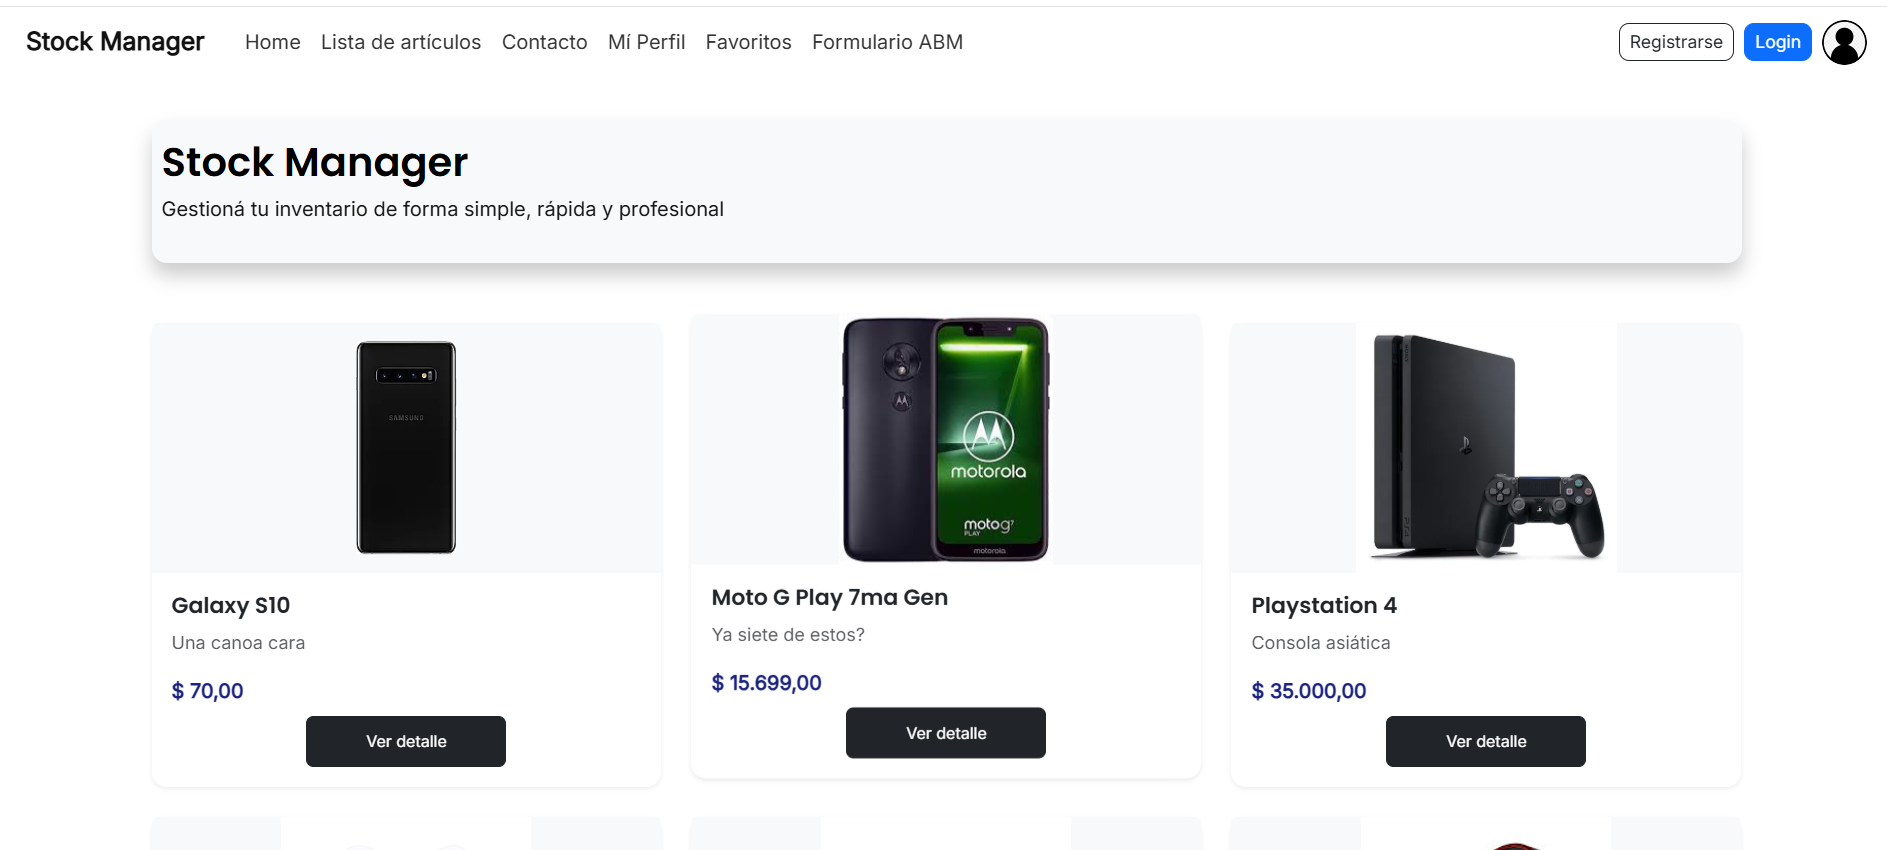
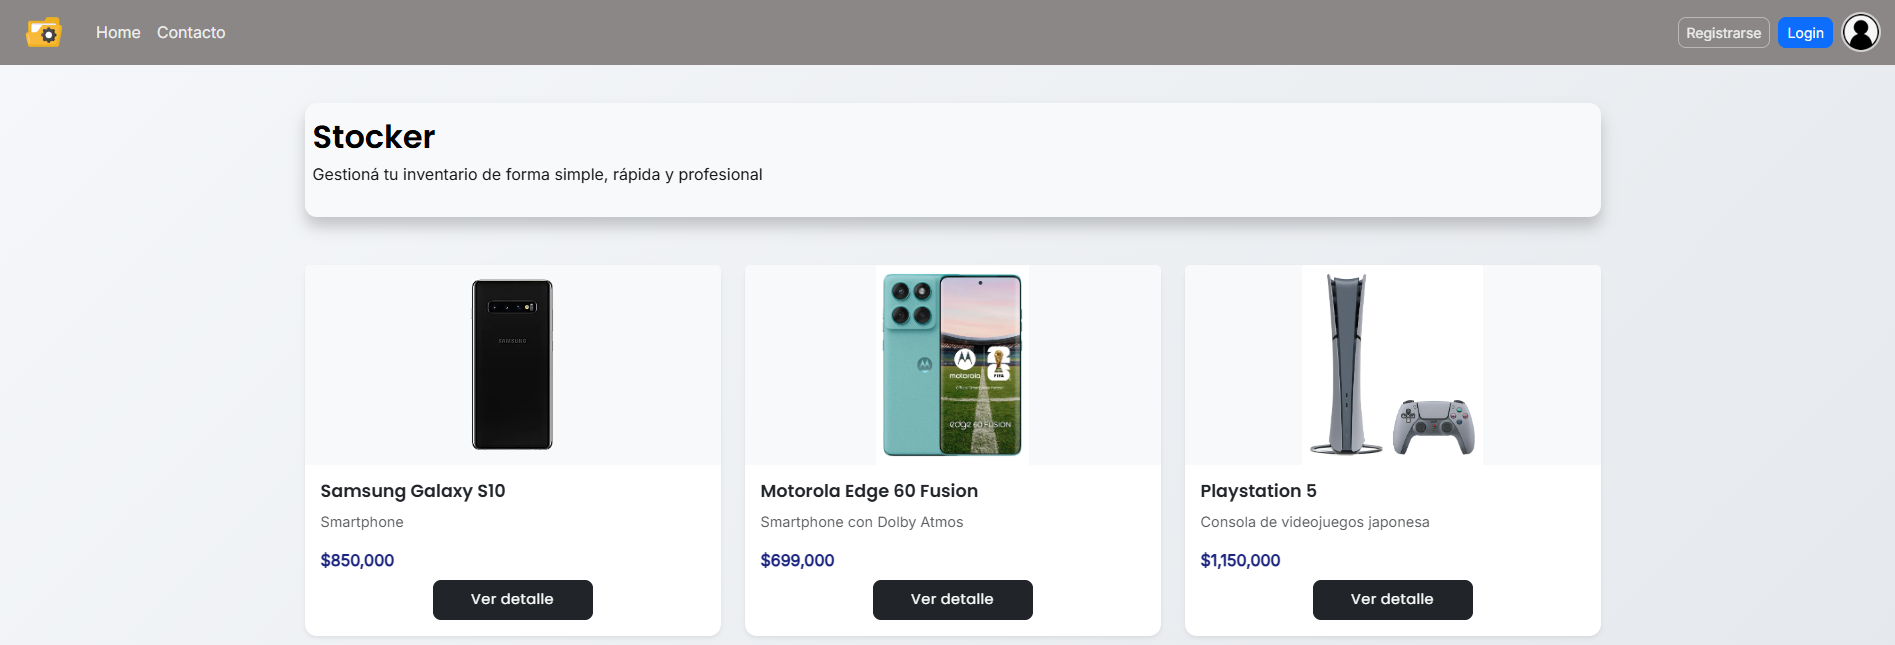
Actualización de información

diff --git a/index.html b/index.html
@@ -211,7 +211,7 @@
             <div class="col-12 col-md-6">
                 <div class="curso-card p-3">
                     <h5>C# Nivel 2</h5>
-                    <p class="curso-meta">Maxi Programa - Enero 2026</p>
+                    <p class="curso-meta">Maxi Programa - Diciembre 2025</p>
                     <p class="curso-detalle">POO + .NET + SQL</p>
                     <div class="curso-links">
                             <a href="https://drive.google.com/file/d/10eE748Ooyrs6MnYxXZQ4PwItIoS8U2z6/view?usp=drive_link" target="_blank">
@@ -226,18 +226,18 @@
 
             <!-- Curso 4 -->
             <div class="col-12 col-md-6">
-                <div class="curso-card p-3 en-curso">
+                <div class="curso-card p-3">
                     <h5>C# Nivel 3</h5>
-                    <p class="curso-meta">Maxi Programa - Febrero 2026</p>
+                    <p class="curso-meta">Maxi Programa - Abril 2026</p>
                     <p class="curso-detalle">Web ASP .NET</p>
                     <span class="badge bg-warning text-dark">En curso</span>
                     <div class="curso-links">
-                        <div>
-                            <a href="https://github.com/JuanPerrotat/APPGestorArticulos-ASP" target="_blank" class="proyecto-link">
-                                Ver proyecto en desarrollo
+                             <a href="https://drive.google.com/file/d/1zmBFD1EGBsXaLbHuLVylGXlzDsP7u4ZT/view?usp=sharing" target="_blank">
+                                Ver certificado
                             </a>
-
-                        </div>
+                            <a href="https://github.com/JuanPerrotat/APPGestorArticulos-ASP" target="_blank" class="proyecto-link">
+                                Repositorio de proyecto para certificación
+                            </a>
                     </div>
                 </div>
             </div>
@@ -269,8 +269,38 @@
         </p>
 
         <div class="row g-4">
+            
+            <!-- 1. ASP Gestión -->
+            <div class="col-12 col-md-6">
+                <div class="proyecto-card">
+                    <img src="Images/gestor-asp.png" class="img-fluid proyecto-img" />
 
-            <!-- 1. Portfolio -->
+                    <div class="p-3">
+                        <h5>Aplicación Web ASP - Gestión</h5>
+                        <p class="proyecto-desc">
+                           Aplicación web <b>activa y en funcionamiento </b> desarrollada en ASP.NET WebForms con C#, orientada a la gestión 
+                           de artículos mediante operaciones CRUD. Implementa arquitectura en capas, 
+                           conexión a base de datos SQL, validaciones, manejo de errores, 
+                           sistema de login y envío de correos desde formulario de contacto.
+                           Subido con el método de hosting.
+
+                        </p>
+
+                        <span class="badge bg-success">C#</span>
+                        <span class="badge bg-success">ASP.NET</span>
+                        <span class="badge bg-success">SQL</span>
+
+                        <div class="proyecto-links mt-2">
+                           <a href="http://stocker.somee.com/">Link a la web</a>
+                       </div>
+                        <div class="proyecto-links mt-2">
+                            <a href="https://github.com/JuanPerrotat/APPGestorArticulos-ASP">Repositorio</a>
+                        </div>
+                    </div>
+                </div>
+            </div>
+
+            <!-- 2. Portfolio -->
             <div class="col-12 col-md-6">
                 <div class="proyecto-card">
                     <img src="Images/ejemplo-portfolio.png" class="img-fluid proyecto-img" />
@@ -292,29 +322,6 @@
                 </div>
             </div>
 
-            <!-- 2. ASP Gestión -->
-            <div class="col-12 col-md-6">
-                <div class="proyecto-card">
-                    <img src="Images/gestor-asp.png" class="img-fluid proyecto-img" />
-
-                    <div class="p-3">
-                        <h5>Aplicación Web ASP - Gestión</h5>
-                        <span class="badge bg-warning text-dark mb-2">En proceso de desarrollo</span>
-                        <p class="proyecto-desc">
-                            Aplicación web en ASP.NET WebForms con ABM completo, filtros y persistencia en SQL Server.
-                            Arquitectura en capas, validaciones y diseño responsive con Bootstrap.
-                        </p>
-
-                        <span class="badge bg-success">C#</span>
-                        <span class="badge bg-success">ASP.NET</span>
-                        <span class="badge bg-success">SQL</span>
-
-                        <div class="proyecto-links mt-2">
-                            <a href="https://github.com/JuanPerrotat/APPGestorArticulos-ASP">Repositorio</a>
-                        </div>
-                    </div>
-                </div>
-            </div>
 
             <!-- 3. WinForms Gestión -->
             <div class="col-12 col-md-6">
